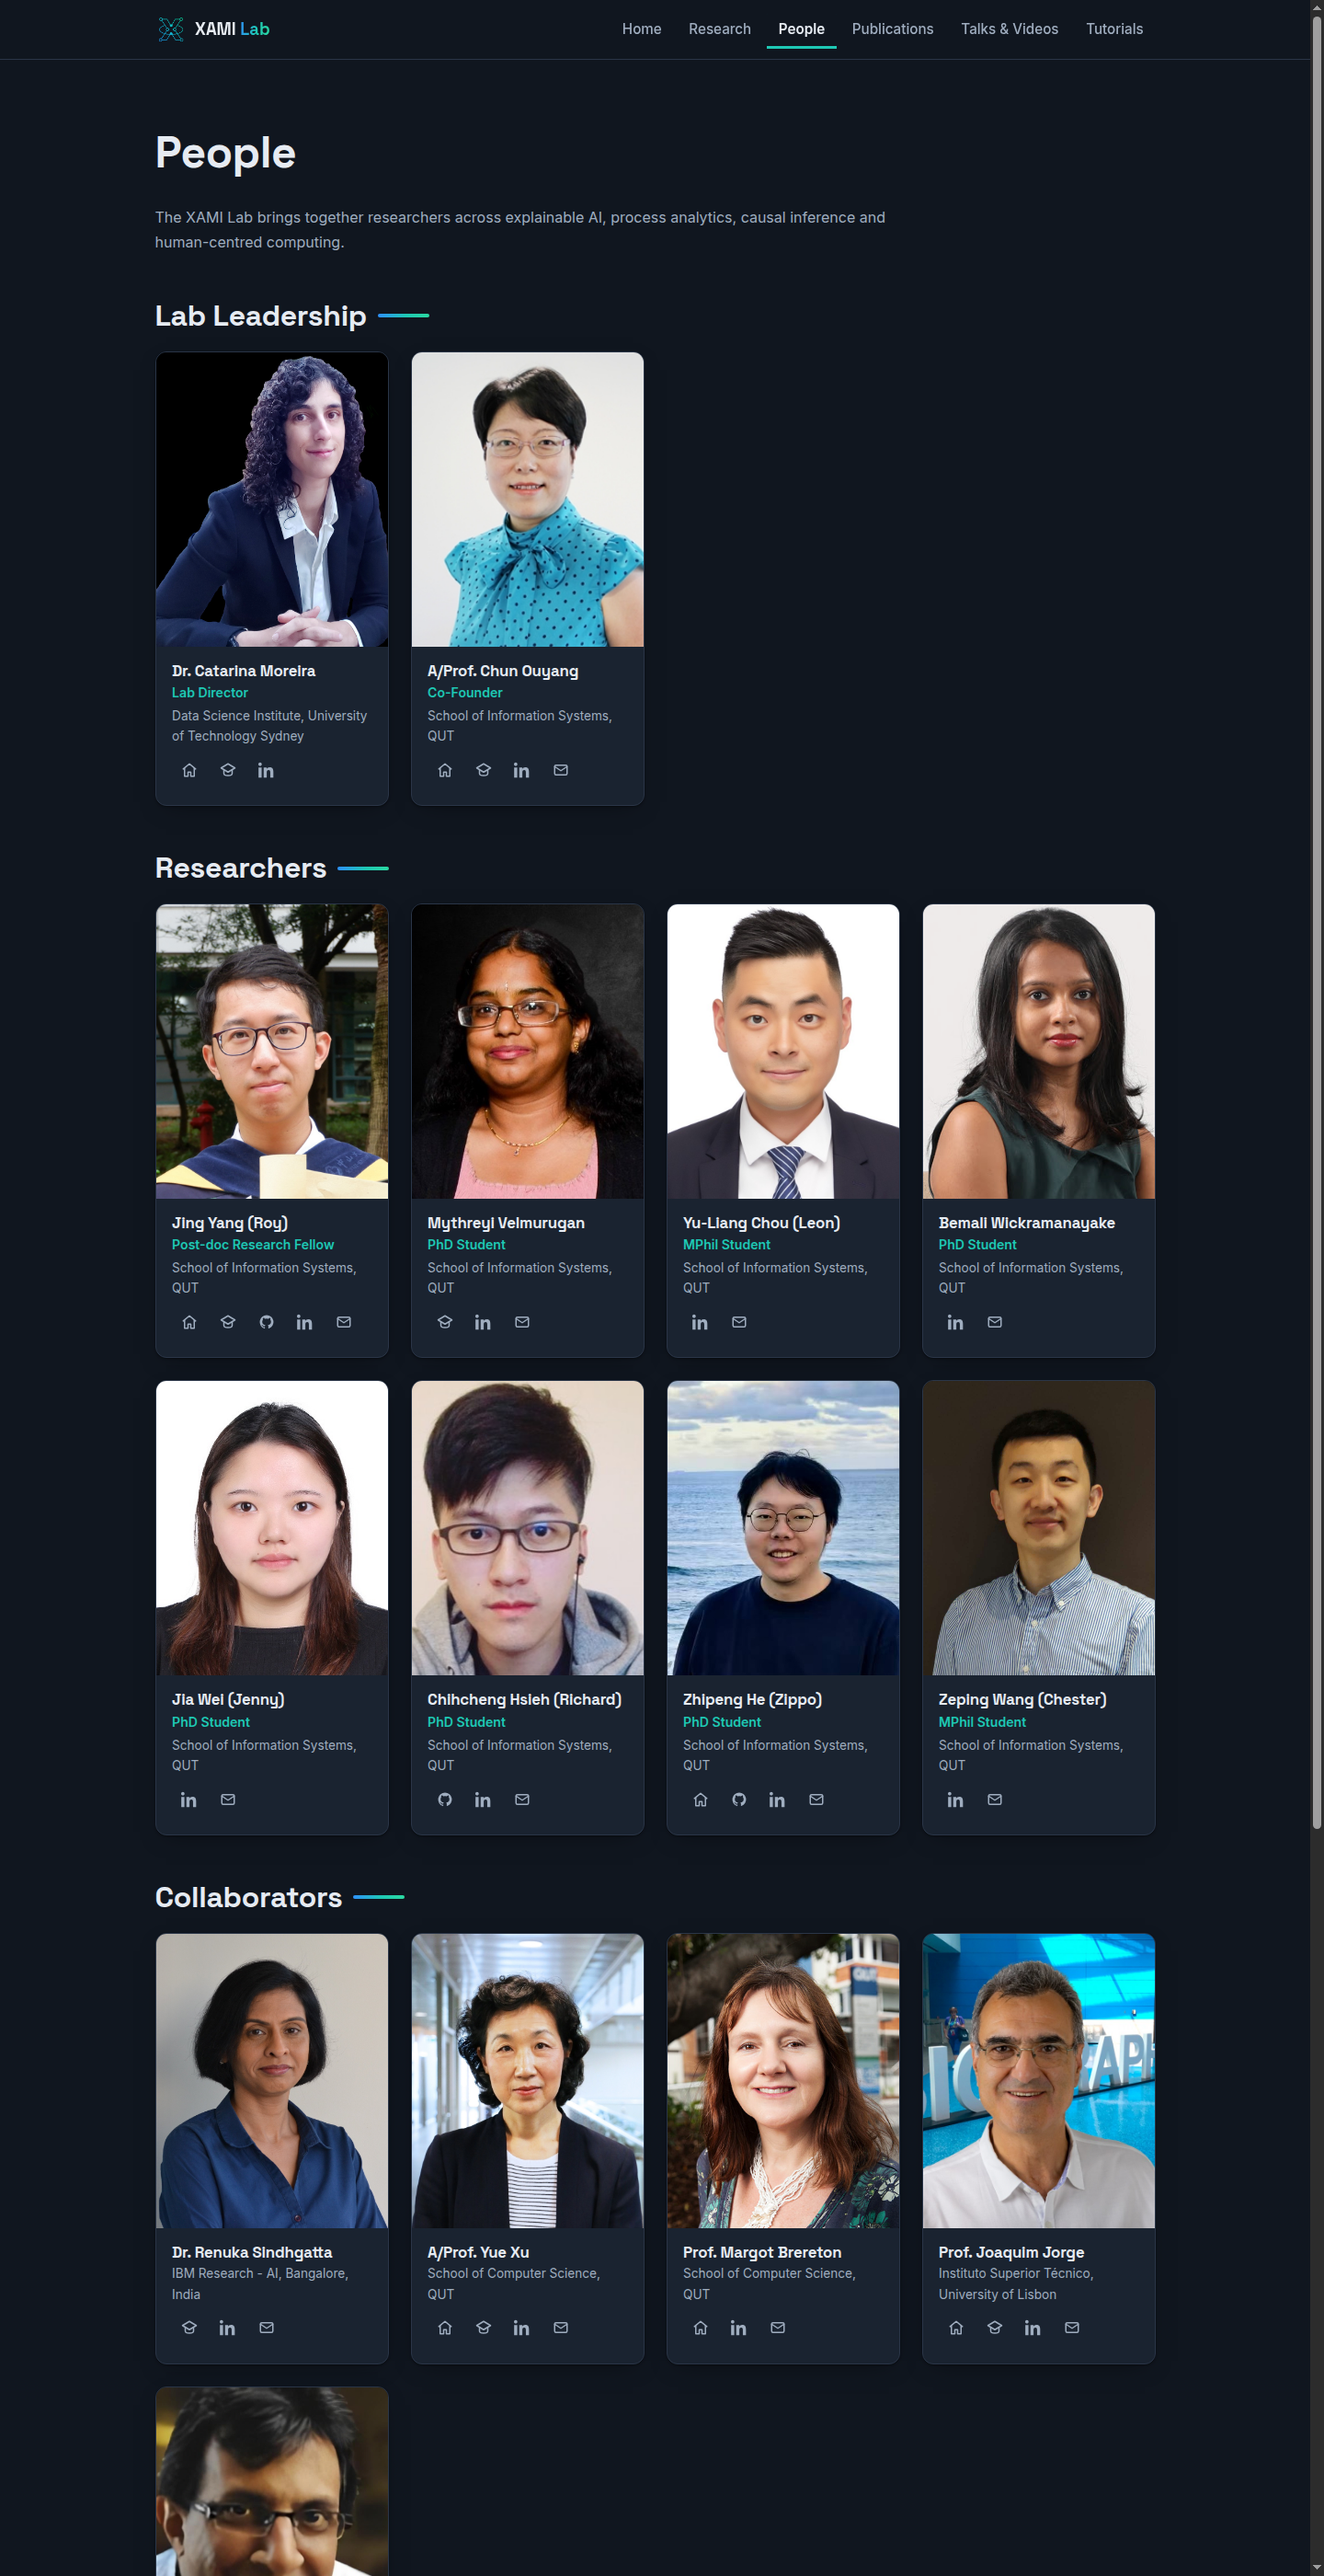
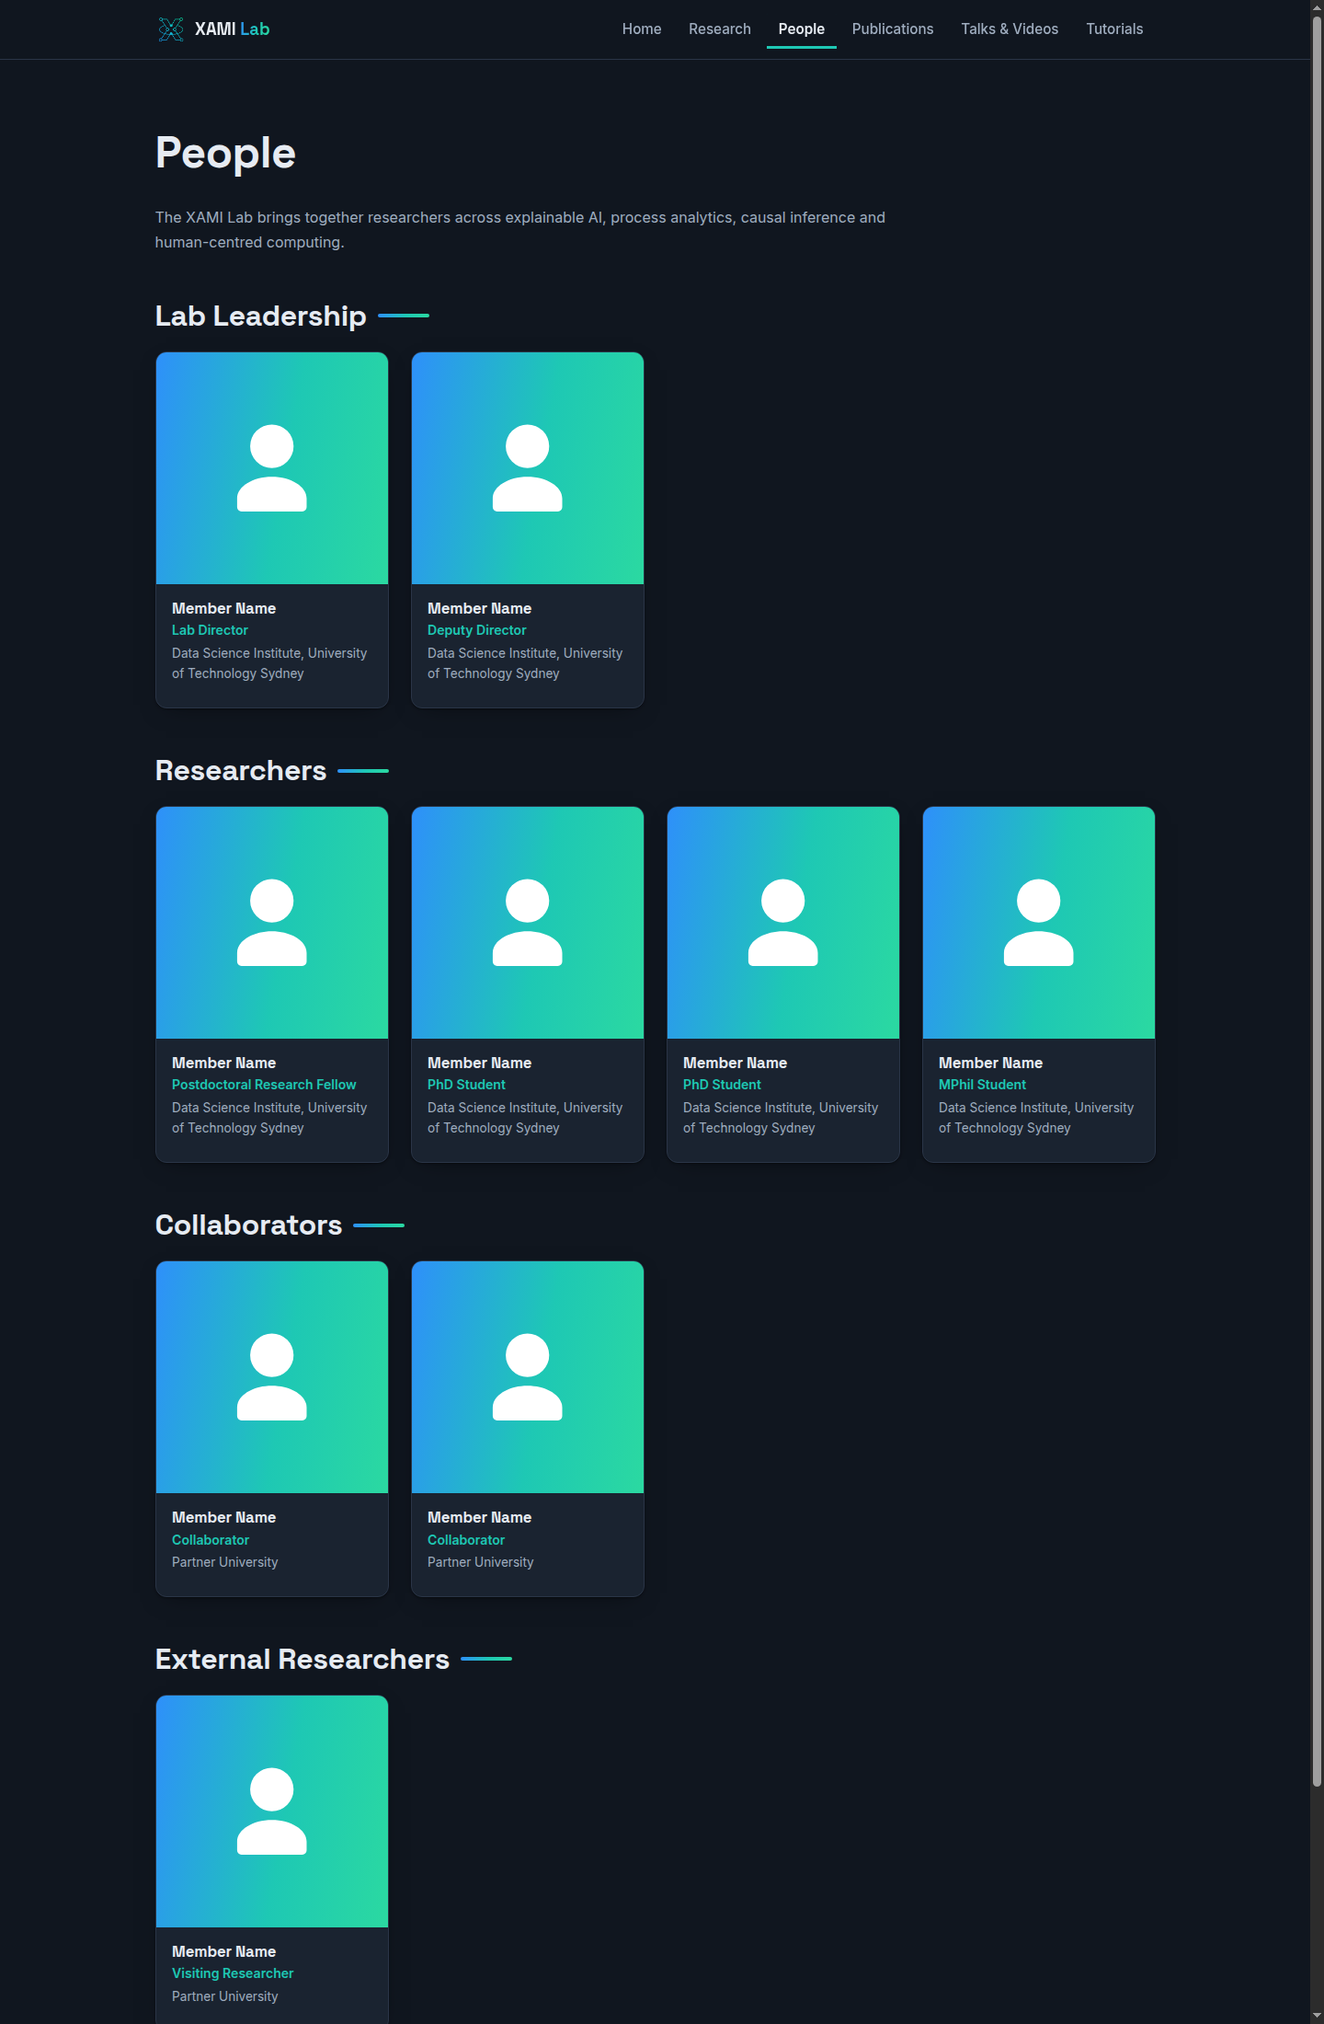
Replace member names and photos with generic placeholders
The People page now shows nine placeholder cards (leadership, researchers,
collaborators, external) with a silhouette icon instead of photos. Real
member files and portrait images are removed; the People screenshot in the
README is regenerated.

Claude-Session: https://claude.ai/code/session_018RK1qaozggw2AXL7fA7AY6

diff --git a/website/src/content/people/postdoc-1.md b/website/src/content/people/postdoc-1.md
@@ -1,0 +1,8 @@
+---
+name: "Member Name"
+group: "researchers"
+role: "Postdoctoral Research Fellow"
+school: "Data Science Institute"
+university: "University of Technology Sydney"
+order: 1
+---

diff --git a/website/src/content/people/deputy-director.md b/website/src/content/people/deputy-director.md
@@ -1,0 +1,8 @@
+---
+name: "Member Name"
+group: "leadership"
+role: "Deputy Director"
+school: "Data Science Institute"
+university: "University of Technology Sydney"
+order: 2
+---

diff --git a/website/src/content/people/mphil-student-1.md b/website/src/content/people/mphil-student-1.md
@@ -1,0 +1,8 @@
+---
+name: "Member Name"
+group: "researchers"
+role: "MPhil Student"
+school: "Data Science Institute"
+university: "University of Technology Sydney"
+order: 4
+---

diff --git a/website/src/content/people/lab-director.md b/website/src/content/people/lab-director.md
@@ -1,0 +1,8 @@
+---
+name: "Member Name"
+group: "leadership"
+role: "Lab Director"
+school: "Data Science Institute"
+university: "University of Technology Sydney"
+order: 1
+---

diff --git a/website/src/content/people/phd-student-1.md b/website/src/content/people/phd-student-1.md
@@ -1,0 +1,8 @@
+---
+name: "Member Name"
+group: "researchers"
+role: "PhD Student"
+school: "Data Science Institute"
+university: "University of Technology Sydney"
+order: 2
+---

diff --git a/website/src/content/people/phd-student-2.md b/website/src/content/people/phd-student-2.md
@@ -1,0 +1,8 @@
+---
+name: "Member Name"
+group: "researchers"
+role: "PhD Student"
+school: "Data Science Institute"
+university: "University of Technology Sydney"
+order: 3
+---

diff --git a/website/src/content/people/external-researcher-1.md b/website/src/content/people/external-researcher-1.md
@@ -1,0 +1,7 @@
+---
+name: "Member Name"
+group: "external"
+role: "Visiting Researcher"
+university: "Partner University"
+order: 1
+---

diff --git a/website/src/content/people/collaborator-1.md b/website/src/content/people/collaborator-1.md
@@ -1,0 +1,7 @@
+---
+name: "Member Name"
+group: "collaborators"
+role: "Collaborator"
+university: "Partner University"
+order: 1
+---

diff --git a/website/src/content/people/collaborator-2.md b/website/src/content/people/collaborator-2.md
@@ -1,0 +1,7 @@
+---
+name: "Member Name"
+group: "collaborators"
+role: "Collaborator"
+university: "Partner University"
+order: 2
+---
